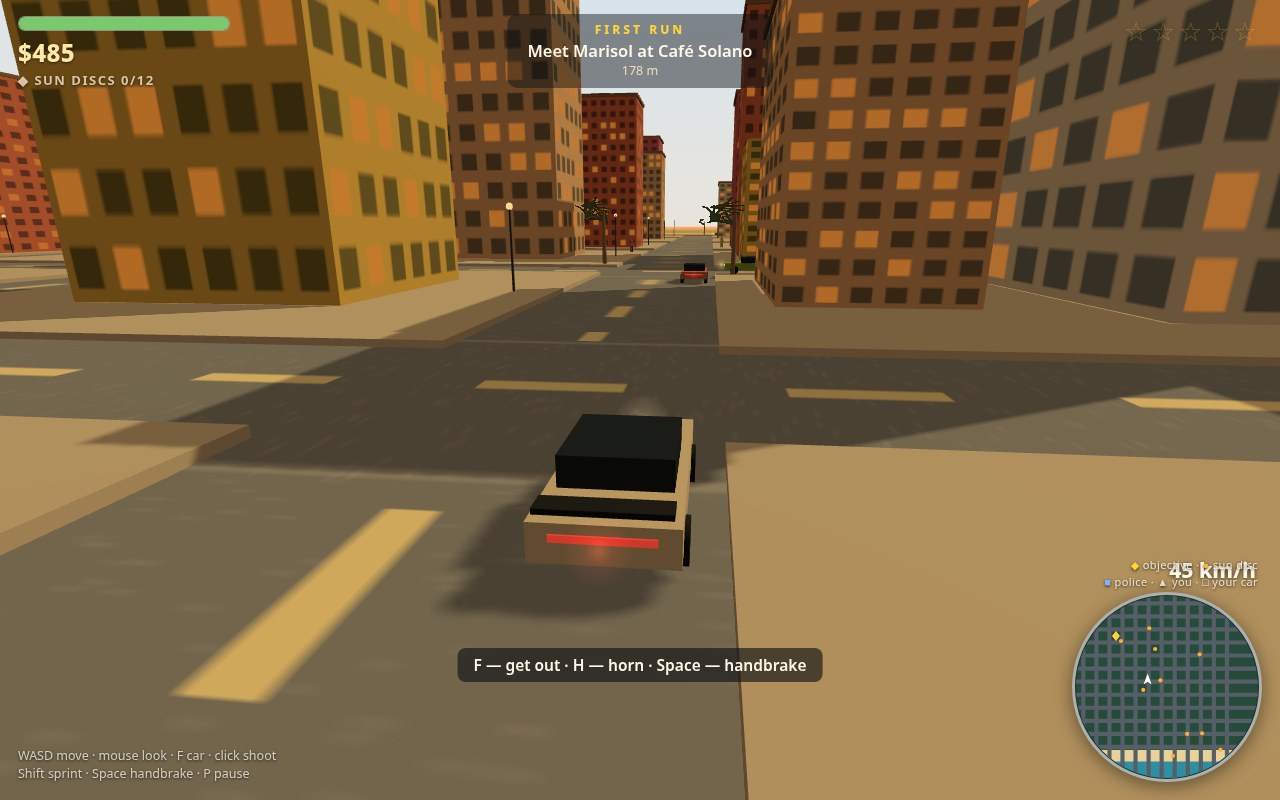
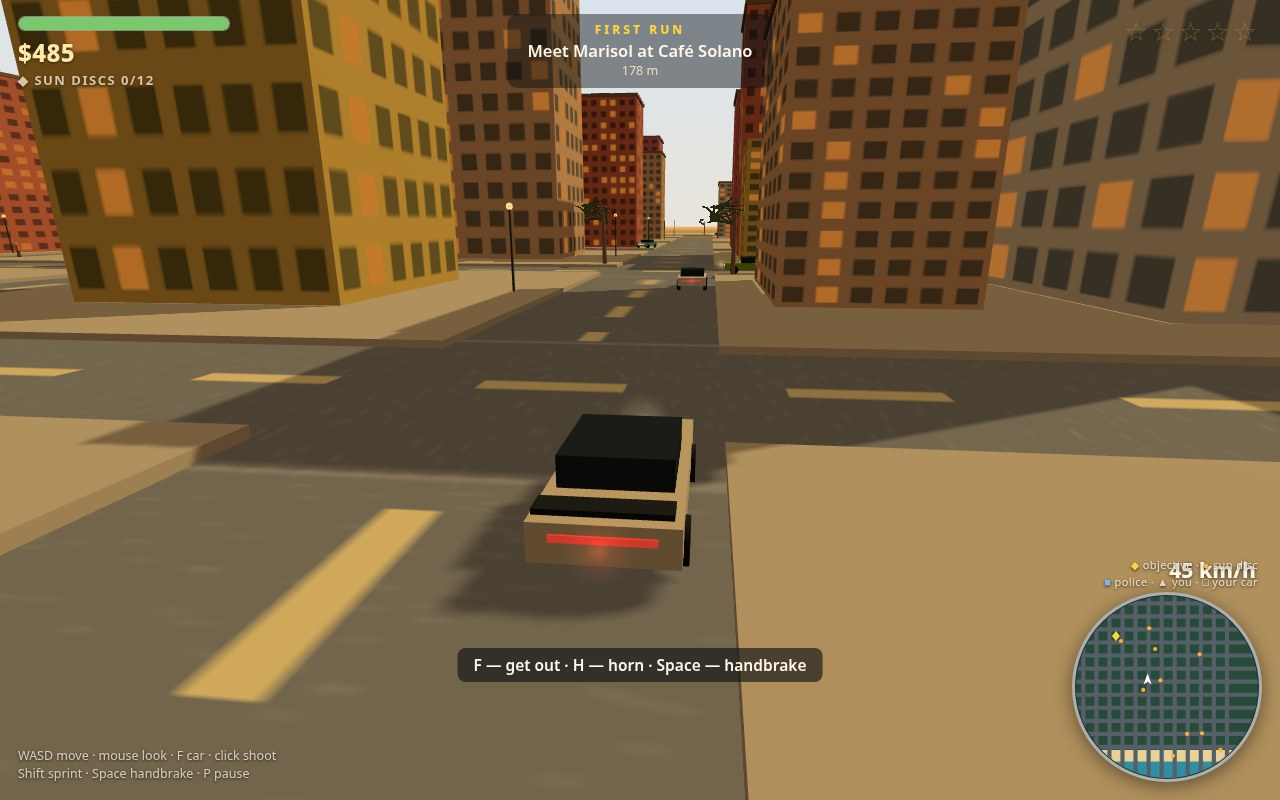
Re-author traffic.js in-session: smooth gap-keeping car-following, junction caution for cross traffic, per-driver honk patience

diff --git a/game/src/traffic.js b/game/src/traffic.js
@@ -1,7 +1,9 @@
 // Traffic: civilian cars that cruise the avenue grid on the correct side of
-// the road, choose turns at intersections, keep their distance from the car
-// ahead and honk when the player blocks them. Each driver is a small state
-// machine steering toward a point a little ahead on its lane.
+// the road, choose turns at intersections, follow the car ahead at a smooth
+// distance, slow down when cross traffic is moving through the junction in
+// front of them and honk when the player blocks them for too long. Each
+// driver is a small state machine steering toward a point a little ahead on
+// its lane, with its own patience for being stuck.
 
 import { avenueLines } from './config.js';
 import { angleDelta, clamp, dist2d } from './random.js';
@@ -35,6 +37,7 @@ export class TrafficDriver {
     }
     this.targetSpeed = rng.range(9, 14);
     this.blockedTime = 0;
+    this.patience = rng.range(2.2, 3.8); // seconds stuck before a honk
     car.driver = 'traffic';
   }
 
@@ -72,27 +75,46 @@ export class TrafficDriver {
     const want = Math.atan2(lookAhead.x - car.x, lookAhead.z - car.z);
     const steer = clamp(angleDelta(car.heading, want) * 2.2, -1, 1);
 
-    // Keep distance: anything slow in front within ~11 m means match its speed.
-    let throttle = car.speed < this.targetSpeed ? 0.75 : 0;
-    let brake = false;
+    // Car-following: ease toward a speed that holds a ~7 m gap to whatever is
+    // slow in front, instead of slamming between full throttle and full brake.
+    // A genuinely closing gap still gets the brake pedal.
     const fwdX = Math.sin(car.heading);
     const fwdZ = Math.cos(car.heading);
+    let desired = this.targetSpeed;
+    let brake = false;
     for (const other of world.cars) {
       if (other === car) continue;
       const relX = other.x - car.x;
       const relZ = other.z - car.z;
       const aheadDist = relX * fwdX + relZ * fwdZ;
       const sideDist = Math.abs(relX * fwdZ - relZ * fwdX);
-      if (aheadDist > 0 && aheadDist < 11 && sideDist < 2.4) {
-        if (car.speed > other.speed + 1) { throttle = 0; brake = car.speed > other.speed + 4; }
-        if (aheadDist < 6) { throttle = 0; brake = true; }
+      if (aheadDist > 0 && aheadDist < 16 && sideDist < 2.4) {
+        const follow = other.speed + Math.max(0, (aheadDist - 7) * 0.55);
+        if (follow < desired) desired = follow;
+        if (aheadDist < 5.5 || (aheadDist < 10 && car.speed > other.speed + 4.5)) brake = true;
       }
     }
 
-    // Blocked for a while? Honk about it.
-    if (brake || throttle === 0) {
+    // Junction caution: cross traffic moving through the intersection just
+    // ahead means easing off early rather than arriving at full speed.
+    if (toIntersection < 13) {
+      const ix = this.dirX !== 0 ? along + ahead : this.line;
+      const iz = this.dirX !== 0 ? this.line : along + ahead;
+      for (const other of world.cars) {
+        if (other === car) continue;
+        if (Math.abs(other.speed) > 1 && dist2d(other, { x: ix, z: iz }) < 10) {
+          if (desired > 5.5) desired = 5.5;
+          break;
+        }
+      }
+    }
+
+    const throttle = brake ? 0 : clamp((desired - car.speed) * 0.45, 0, 0.8);
+
+    // Blocked for longer than this driver can stand? Honk about it.
+    if (brake || throttle <= 0.01) {
       this.blockedTime += dt;
-      if (this.blockedTime > 2.4 && car.honkCooldown <= 0) {
+      if (this.blockedTime > this.patience && car.honkCooldown <= 0) {
         world.onHonk(car);
         car.honkCooldown = 4;
         this.blockedTime = 0;
